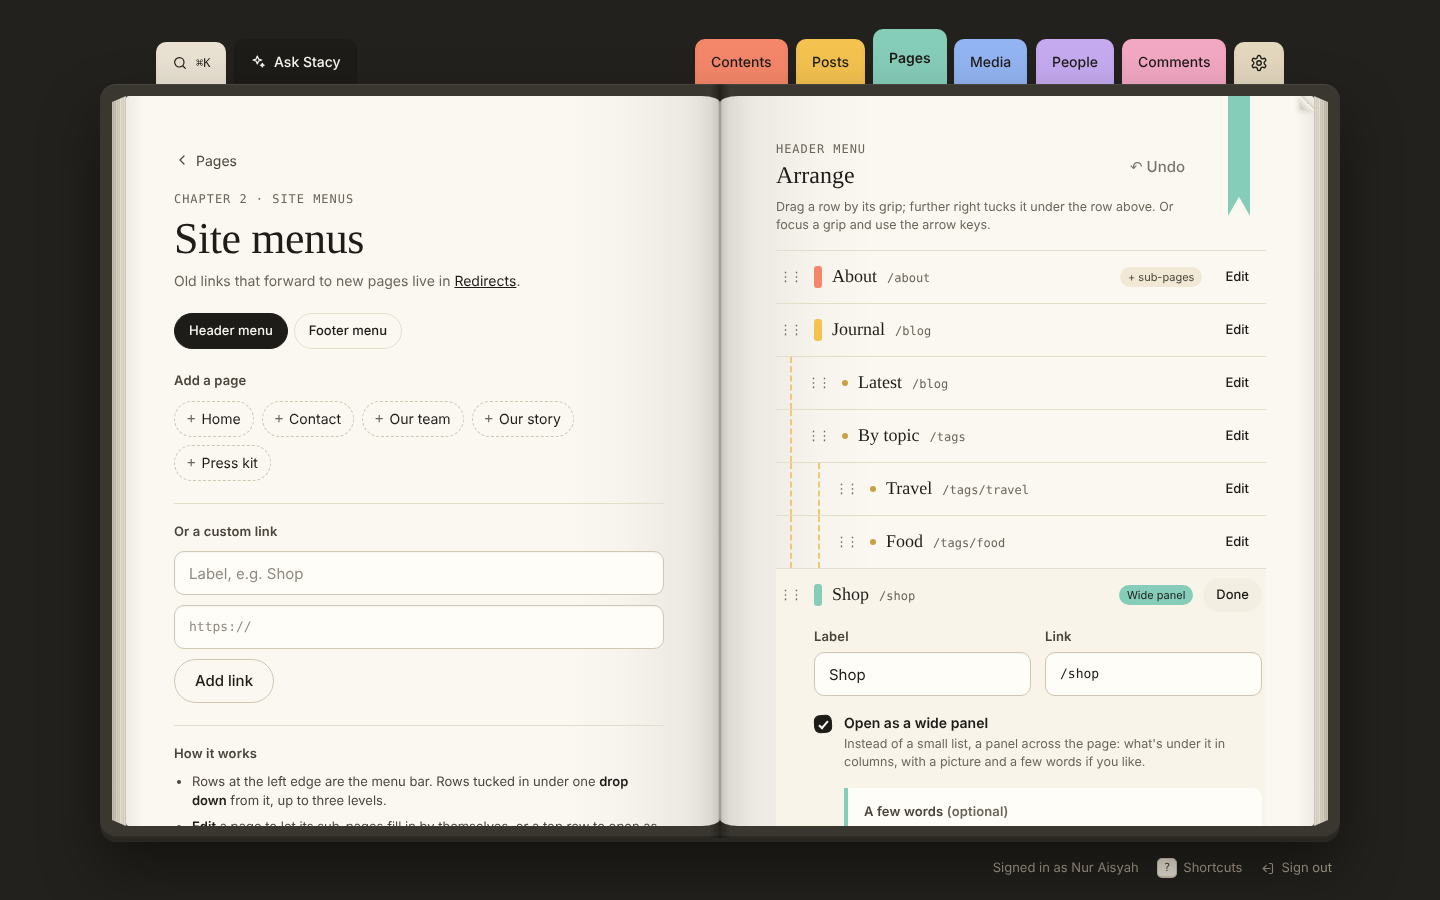
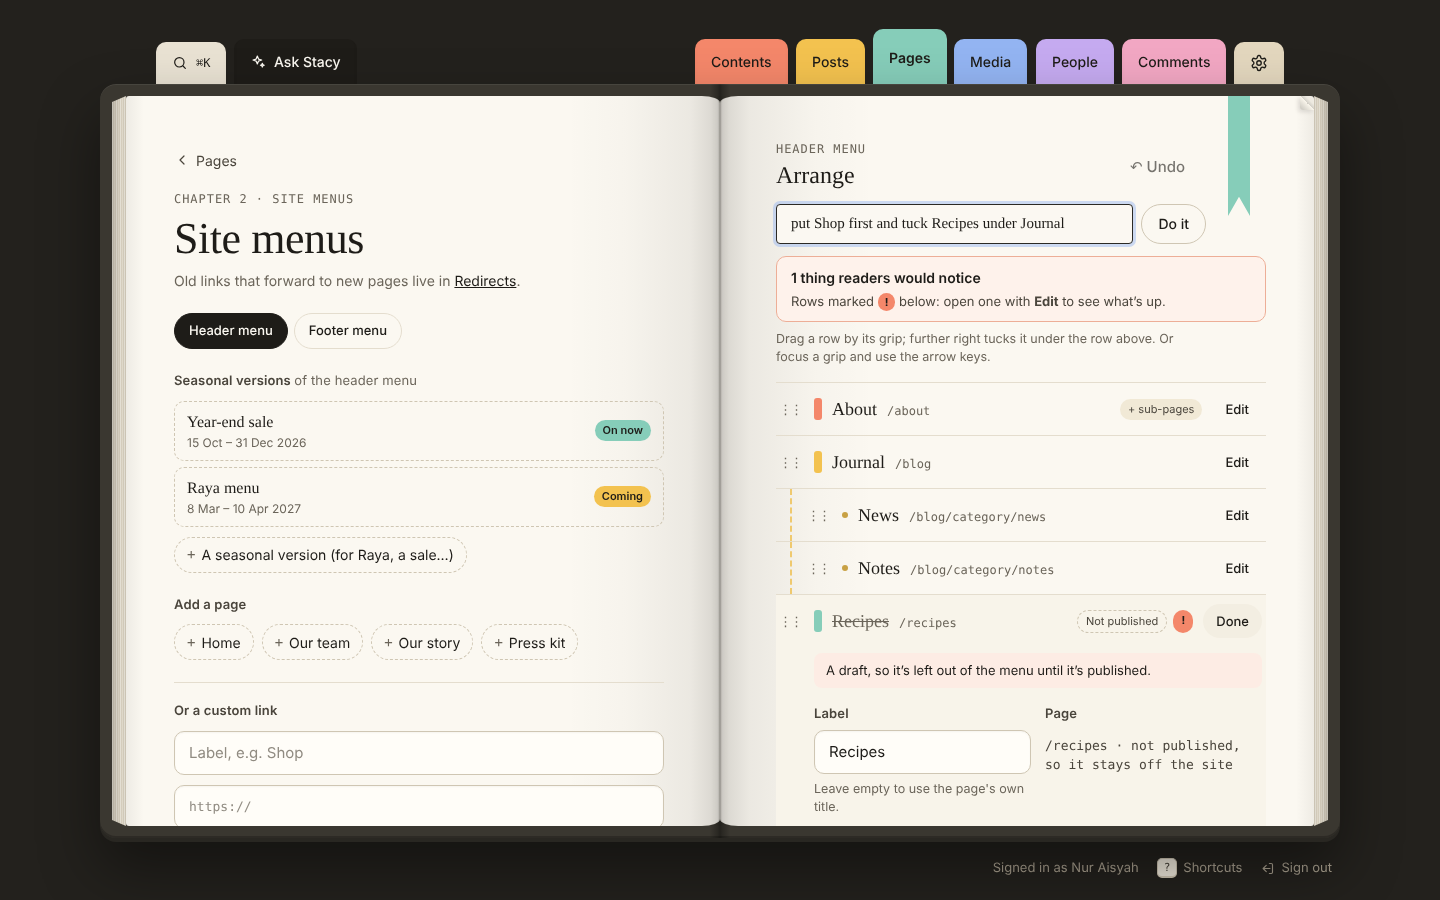
Updated README.md, docs/screenshots/site-menus.png

diff --git a/README.md b/README.md
@@ -33,7 +33,7 @@ It comes with **Stacy**, an assistant who can find, write, tidy and publish with
 - **Seasonal menus.** Make a version of a menu for set dates (a Raya menu, a year-end sale). It takes over by itself on its first day and steps back after its last, in the site's own time zone.
 - On the site, drop-downs work with a mouse, a keyboard (Escape closes them) and on phones, where they open in place. The footer menu shows its links in groups.
 
-![The menu editor: one list, with a row's drawer open](docs/screenshots/site-menus.png)
+![The menu editor: seasonal versions on the left; on the right, arranging in words, a warning about a draft page, and that row's drawer open](docs/screenshots/site-menus.png)
 
 ![A wide panel on the site: links in columns, the newest posts and a picture card](docs/screenshots/wide-panel.png)
 
